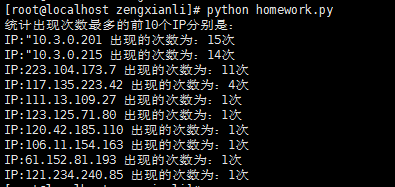
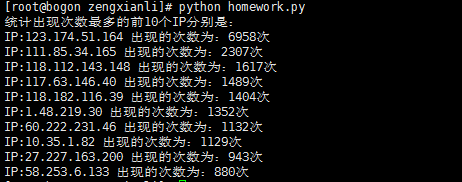
homework

diff --git a/two/zengxianli/homework.py b/two/zengxianli/homework.py
@@ -2,21 +2,22 @@
 #coding:utf-8
 
 #打开日志文件，以列表的形式储存，每一行为一个字符串为列表中的一个元素，列表名为data
-with open('access.log') as f:
+with open('access.txt') as f:
        data = f.readlines()
 
-data1=[] #新建列表，用于存放IP地址
+##data1=[] #新建列表，用于存放IP地址
 data2=[] #新建列表，用于存放IP地址
 tmp={}   #新建字典用于存放IP地址及出现次数，字典的格式为tmp{IP:次数}
 
 
 for i,ip in enumerate(data):
-        data1.append(ip.split(" ")[-3].split(":")[0]) #将列表data中的每个元素（字符串）转换成列表，并提取新列表中的倒数第三个元素（IP地址），存入data2中
+        ##data1.append(ip.split(" ")[-3].split(":")[0]) 
+
         data[i]=ip.split(" ")[0] #将列表data中的每个元素（字符串）转换成列表，并提取新列表中的第一个元素（IP地址），更换掉原data的元素
 
 
-data1.remove(data1[-1])
-data=data+data1 #将data和data2合并成新的列表，并重命名为data，即新列表data中每一个元素为日志中出现的每一个IP地址
+##data1.remove(data1[-1])
+##data=data+data1 #将data和data2合并成新的列表，并重命名为data，即新列表data中每一个元素为日志中出现的每一个IP地址
 data2=data      #将新列表data复制一份，并将副本命名为data2
 data=list(set(data)) #将data2去重
 
